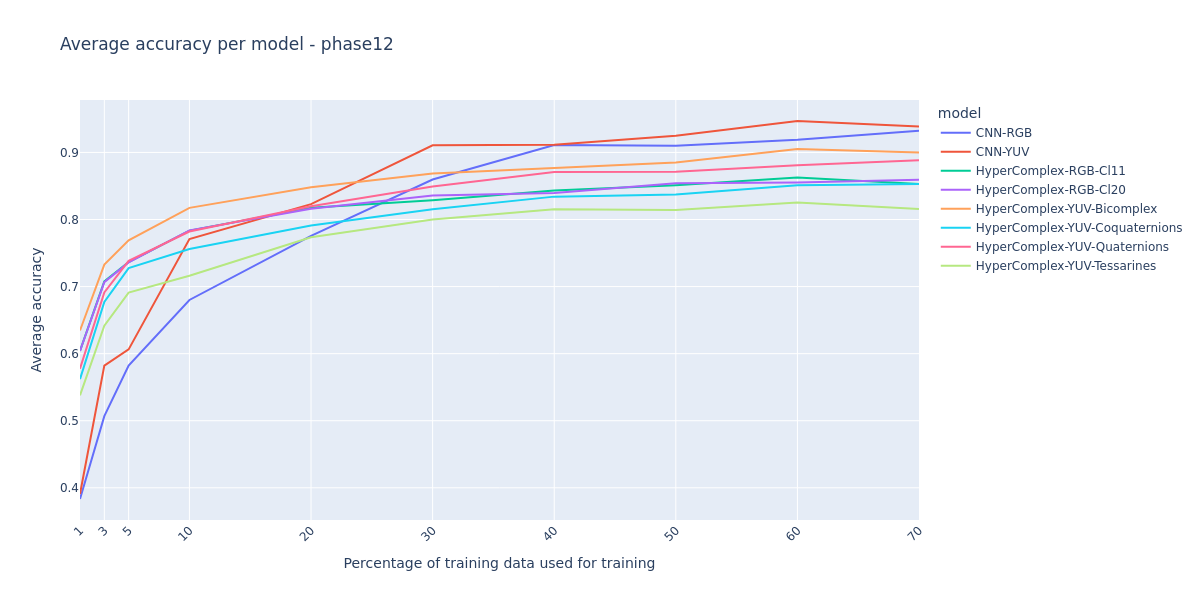
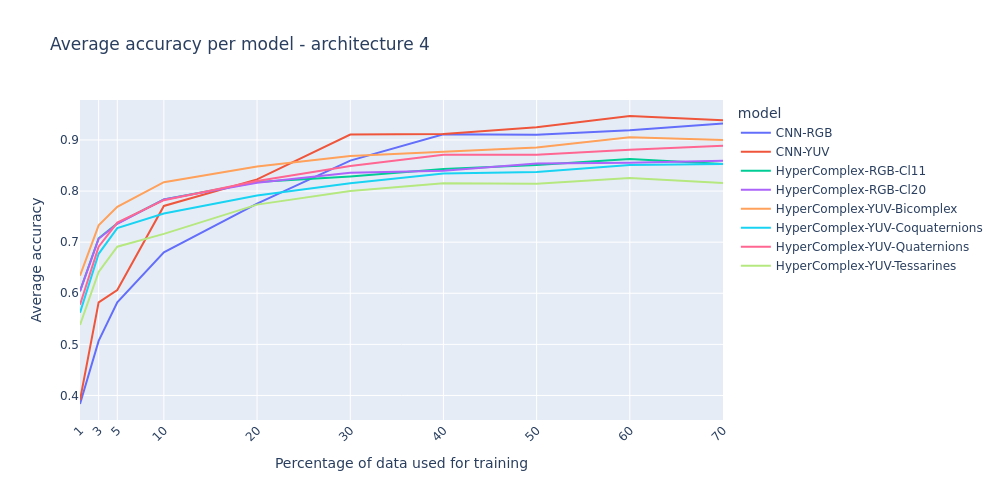
Some improvements

Changed region(s): [[0.031, 0.15, 0.992, 0.96], [0.031, 0.06, 0.434, 0.12]]

diff --git a/models/HyperComplexCNN_Model.py b/models/HyperComplexCNN_Model.py
@@ -34,16 +34,13 @@ def build_model(input_shape, num_classes, metrics, algebra):
     model = Sequential()
     model.add(Input(shape=input_shape))
 
-    model.add(HyperConv2D(16, (3, 3), activation='relu', algebra=algebra))
-    model.add(MaxPooling2D(strides=2))
-
-    model.add(HyperConv2D(32, (3, 3), activation='relu', algebra=algebra))
-    model.add(MaxPooling2D(strides=2))
-
-    model.add(HyperConv2D(64, (3, 3), activation='relu', algebra=algebra))
+    model.add(HyperConv2D(4, (3, 3), activation='relu', algebra=algebra))
     model.add(MaxPooling2D())
 
-    model.add(HyperConv2D(128, (5, 5), activation='relu', algebra=algebra))
+    model.add(HyperConv2D(8, (3, 3), activation='relu', algebra=algebra))
+    model.add(MaxPooling2D())
+
+    model.add(HyperConv2D(16, (3, 3), activation='relu', algebra=algebra))
     model.add(MaxPooling2D())
 
     model.add(Flatten())
@@ -56,10 +53,10 @@ def objective_hcnn(trial, train_dataset, val_dataset, input_shape, num_classes, 
     model = Sequential()
     model.add(Input(shape=input_shape))
 
-    num_layers = trial.suggest_int("num_layers", 2, 5)
-    filters_base = trial.suggest_categorical(f"filters_base_num", [2, 4, 8])
+    num_layers = trial.suggest_int("num_layers", 2, 6)
+    filters_base = trial.suggest_categorical(f"filters_base_num", [2, 4, 8, 16])
     for i in range(num_layers):
-        kernel_size_num = trial.suggest_categorical(f"kernels_size_{i}", [3, 5])
+        kernel_size_num = trial.suggest_categorical(f"kernels_size_{i}", [3, 5, 7])
         model.add(HyperConv2D(filters_base * (2 ** i), (kernel_size_num, kernel_size_num), padding='SAME',
                               activation='relu', algebra=algebra))
         model.add(MaxPooling2D())
@@ -68,7 +65,8 @@ def objective_hcnn(trial, train_dataset, val_dataset, input_shape, num_classes, 
     model.add(Dense(num_classes, activation='softmax'))
     model.compile(loss='categorical_crossentropy', optimizer=Adam(), metrics=["accuracy"])
 
-    history = model.fit(train_dataset, validation_data=val_dataset, epochs=200, verbose=0, callbacks=[early_stopping_tuning])
+    history = model.fit(train_dataset, validation_data=val_dataset, epochs=200, verbose=0,
+                        callbacks=[early_stopping_tuning])
 
     return history.history['val_accuracy'][-1]
 

diff --git a/models/CNN_Model.py b/models/CNN_Model.py
@@ -32,16 +32,13 @@ def build_model(input_shape, num_classes, metrics):
     model = Sequential()
     model.add(Input(shape=input_shape))
 
-    model.add(Conv2D(32, (3, 3), activation='relu'))
-    model.add(MaxPooling2D(strides=2))
-
-    model.add(Conv2D(64, (3, 3), activation='relu'))
-    model.add(MaxPooling2D(strides=2))
-
-    model.add(Conv2D(128, (3, 3), activation='relu'))
+    model.add(Conv2D(16, (3, 3), activation='relu'))
     model.add(MaxPooling2D())
 
-    model.add(Conv2D(256, (5, 5), activation='relu'))
+    model.add(Conv2D(32, (3, 3), activation='relu'))
+    model.add(MaxPooling2D())
+
+    model.add(Conv2D(64, (3, 3), activation='relu'))
     model.add(MaxPooling2D())
 
     model.add(Flatten())
@@ -55,10 +52,10 @@ def objective_cnn(trial, train_dataset, val_dataset, input_shape, num_classes):
     model = Sequential()
     model.add(Input(shape=input_shape))
 
-    num_layers = trial.suggest_int("num_layers", 2, 5)
-    filters_base = trial.suggest_categorical(f"filters_base_num", [8, 16, 32])
+    num_layers = trial.suggest_int("num_layers", 2, 6)
+    filters_base = trial.suggest_categorical(f"filters_base_num", [8, 16, 32, 64])
     for i in range(num_layers):
-        kernel_size_num = trial.suggest_categorical(f"kernels_size_{i}", [3, 5])
+        kernel_size_num = trial.suggest_categorical(f"kernels_size_{i}", [3, 5, 7])
         model.add(Conv2D(filters_base * (2 ** i), (kernel_size_num, kernel_size_num), padding='same',
                          activation='relu'))
         model.add(MaxPooling2D())
@@ -67,7 +64,8 @@ def objective_cnn(trial, train_dataset, val_dataset, input_shape, num_classes):
     model.add(Dense(num_classes, activation='softmax'))
     model.compile(loss='categorical_crossentropy', optimizer=Adam(), metrics=["accuracy"])
 
-    history = model.fit(train_dataset, validation_data=val_dataset, epochs=200, verbose=0, callbacks=[early_stopping_tuning])
+    history = model.fit(train_dataset, validation_data=val_dataset, epochs=200, verbose=0,
+                        callbacks=[early_stopping_tuning])
 
     return history.history['val_accuracy'][-1]
 

diff --git a/analysis/MultiRunAnalysis.py b/analysis/MultiRunAnalysis.py
@@ -10,8 +10,8 @@ RUNS_TO_TEST = ["run1", "run2", "run3", "run4", "run5", "run6", "run7", "run8", 
 RUN_LABELS_SPLIT_1234 = [1, 3, 5, 10, 15, 20, 40, 50, 60, 80] # For phase 1, 2, 3, 4
 RUN_LABELS_SPLIT_5_PLUS = [1, 3, 5, 10, 20, 30, 40, 50, 60, 70] # For phase 5-14, 19-20
 RUN_LABELS_SPLIT_16_PLUS = [70] # For phase 16+
-start_phase = 7        # Inclusive
-end_phase = 7          # Inclusive
+start_phase = 14        # Inclusive
+end_phase = 14          # Inclusive
 # ---------------------------------------------------------
 
 def read_phase_data(run_phase, runs, only_hypercomplex=False):
@@ -81,7 +81,7 @@ def get_average_evaluation_grouped_by(data, runs, run_phase, run_labels, group_b
     df = pd.DataFrame(plot_data)
 
     fig = plt_exp.line(df, x="run_name", y=f"average_{evaluation_key}", color=f"{group_by_key}",
-                       title=f"Average {evaluation_key} per {group_by_key} - {run_phase}",
+                       title=f"Average {evaluation_key} per {group_by_key} - architecture 5",
                        labels={"run_name": "Percentage of data used for training", f"average_{evaluation_key}": f"Average {evaluation_key}",
                                f"{group_by_key}": f"{group_by_key}"})
 
@@ -102,7 +102,7 @@ def get_average_evaluation_by_model(data, runs, run_phase, run_labels, evaluatio
     df = pd.DataFrame(plot_data)
 
     fig = plt_exp.line(df, x="run_name", y=f"average_{evaluation_key}", color="model",
-                       title=f"Average {evaluation_key} per model - {run_phase}",
+                       title=f"Average {evaluation_key} per model - architecture 5",
                        labels={"run_name": "Percentage of data used for training", f"average_{evaluation_key}": f"Average {evaluation_key}",
                                "model": "model"})
 

diff --git a/models/CalculateParams.py b/models/CalculateParams.py
@@ -9,20 +9,20 @@ def calculateParamsHyperConv(filters, kernel_size, input_size, layer_before_flat
         params_sum += params
         print(f"HyperConv2D_{i+1}: {params}")
 
-    # dense_params = num_classes * (flatten_shape + 1)
-    # params_sum += dense_params
+    dense_params = num_classes * (flatten_shape + 1)
+    params_sum += dense_params
 
-    # print(f"Dense: {dense_params}")
+    print(f"Dense: {dense_params}")
     print(f"Total params: {params_sum}")
 
 # CNN - 931432
 
 #filters = (8, 16, 32, 64) # - params/4 -> 228 608
 #filters = (11, 22, 45, 90) # - params/2 -> 450 420
-filters = (16, 32, 64, 128) # - params -> 912 896
+filters = (4, 8, 16) # - params -> 912 896
 
-layer_before_flatten_shape = (10, 10, 128)
-kernel_size = [(3, 3), (3, 3), (3, 3), (5, 5)]
+layer_before_flatten_shape = (10, 10, 64)
+kernel_size = [(3, 3), (3, 3), (3, 3)]
 input_size = (100, 100, 4)
 num_classes = 8
 

diff --git a/phase_plans_and_conclusions/phase18-tuning_plan.md b/phase_plans_and_conclusions/phase18-tuning_plan.md
@@ -45,19 +45,18 @@ def objective_cnn(trial, train_dataset, val_dataset, input_shape, num_classes):
     model.add(Input(shape=input_shape))
 
     num_layers = trial.suggest_int("num_layers", 2, 6)
+    filters_base = trial.suggest_categorical(f"filters_base_num", [8, 16, 32, 64])
     for i in range(num_layers):
-        filters = trial.suggest_categorical(f"filters_{i}", [8, 16, 32, 64, 128, 256])
         kernel_size_num = trial.suggest_categorical(f"kernels_size_{i}", [3, 5, 7])
-        model.add(Conv2D(filters, (kernel_size_num, kernel_size_num), activation='relu'))
-        if trial.suggest_categorical(f"pool_{i}", [True, False]):
-            strides = trial.suggest_categorical(f"strides_{i}", [None, 1, 2])
-            model.add(MaxPooling2D(strides=strides))
+        model.add(Conv2D(filters_base * (2 ** i), (kernel_size_num, kernel_size_num), padding='same',
+                         activation='relu'))
+        model.add(MaxPooling2D())
 
     model.add(Flatten())
     model.add(Dense(num_classes, activation='softmax'))
     model.compile(loss='categorical_crossentropy', optimizer=Adam(), metrics=["accuracy"])
 
-    history = model.fit(train_dataset, validation_data=val_dataset, epochs=200, verbose=0,
+    history = model.fit(train_dataset, validation_data=val_dataset, epochs=200, verbose=0, 
                         callbacks=[early_stopping_tuning])
 
     return history.history['val_accuracy'][-1]
@@ -71,20 +70,18 @@ def objective_hcnn(trial, train_dataset, val_dataset, input_shape, num_classes, 
     model.add(Input(shape=input_shape))
 
     num_layers = trial.suggest_int("num_layers", 2, 6)
+    filters_base = trial.suggest_categorical(f"filters_base_num", [2, 4, 8, 16])
     for i in range(num_layers):
-        filters = trial.suggest_categorical(f"filters_{i}", [2, 4, 8, 16, 32, 64])
         kernel_size_num = trial.suggest_categorical(f"kernels_size_{i}", [3, 5, 7])
-        model.add(HyperConv2D(filters, (kernel_size_num, kernel_size_num), activation='relu',
-                              algebra=algebra))
-        if trial.suggest_categorical(f"pool_{i}", [True, False]):
-            strides = trial.suggest_categorical(f"strides_{i}", [None, 1, 2])
-            model.add(MaxPooling2D(strides=strides))
+        model.add(HyperConv2D(filters_base * (2 ** i), (kernel_size_num, kernel_size_num), padding='SAME',
+                              activation='relu', algebra=algebra))
+        model.add(MaxPooling2D())
 
     model.add(Flatten())
     model.add(Dense(num_classes, activation='softmax'))
     model.compile(loss='categorical_crossentropy', optimizer=Adam(), metrics=["accuracy"])
 
-    history = model.fit(train_dataset, validation_data=val_dataset, epochs=200, verbose=0,
+    history = model.fit(train_dataset, validation_data=val_dataset, epochs=200, verbose=0, 
                         callbacks=[early_stopping_tuning])
 
     return history.history['val_accuracy'][-1]

diff --git a/phase_plans_and_conclusions/phase18-tuning_models.md b/phase_plans_and_conclusions/phase18-tuning_models.md
@@ -8,10 +8,10 @@ def build_model(input_shape, num_classes, metrics):
     model.add(Input(shape=input_shape))
 
     model.add(Conv2D(32, (5, 5), activation='relu'))
-    model.add(MaxPooling2D(strides=2))
+    model.add(MaxPooling2D())
 
     model.add(Conv2D(64, (5, 5), activation='relu'))
-    model.add(MaxPooling2D(strides=2))
+    model.add(MaxPooling2D())
 
     model.add(Conv2D(128, (3, 3), activation='relu'))
     model.add(MaxPooling2D())
@@ -34,10 +34,10 @@ def build_model(input_shape, num_classes, metrics):
     model.add(Input(shape=input_shape))
 
     model.add(Conv2D(32, (3, 3), activation='relu'))
-    model.add(MaxPooling2D(strides=2))
+    model.add(MaxPooling2D())
 
     model.add(Conv2D(64, (3, 3), activation='relu'))
-    model.add(MaxPooling2D(strides=2))
+    model.add(MaxPooling2D())
 
     model.add(Conv2D(128, (3, 3), activation='relu'))
     model.add(MaxPooling2D())
@@ -60,7 +60,7 @@ def build_model(input_shape, num_classes, metrics, algebra):
     model.add(Input(shape=input_shape))
 
     model.add(HyperConv2D(8, (3, 3), activation='relu', algebra=algebra))
-    model.add(MaxPooling2D(strides=2))
+    model.add(MaxPooling2D())
 
     model.add(HyperConv2D(16, (3, 3), activation='relu', algebra=algebra))
     model.add(MaxPooling2D())
@@ -86,7 +86,7 @@ def build_model(input_shape, num_classes, metrics, algebra):
     model.add(Input(shape=input_shape))
 
     model.add(HyperConv2D(8, (3, 3), activation='relu', algebra=algebra))
-    model.add(MaxPooling2D(strides=2))
+    model.add(MaxPooling2D())
 
     model.add(HyperConv2D(16, (3, 3), activation='relu', algebra=algebra))
     model.add(MaxPooling2D())

diff --git a/analysis/between_phases_results/mean_average_F1-Score_per_model.md b/analysis/between_phases_results/mean_average_F1-Score_per_model.md
@@ -1,10 +1,10 @@
 | model                          |   mean_average_F1-Score |
 |:-------------------------------|------------------------:|
-| HyperComplex-YUV-Bicomplex     |                0.842838 |
-| HyperComplex-YUV-Quaternions   |                0.836214 |
-| CNN-YUV                        |                0.828168 |
-| HyperComplex-RGB-Cl11          |                0.825952 |
-| HyperComplex-RGB-Cl20          |                0.823273 |
-| HyperComplex-YUV-Coquaternions |                0.817644 |
-| HyperComplex-YUV-Tessarines    |                0.808232 |
+| HyperComplex-YUV-Bicomplex     |                0.839259 |
+| HyperComplex-YUV-Quaternions   |                0.828496 |
+| CNN-YUV                        |                0.82072  |
+| HyperComplex-RGB-Cl11          |                0.813738 |
+| HyperComplex-RGB-Cl20          |                0.806744 |
+| HyperComplex-YUV-Tessarines    |                0.804158 |
+| HyperComplex-YUV-Coquaternions |                0.800677 |
 | CNN-RGB                        |                0.779491 |

diff --git a/analysis/between_phases_results/mean_average_accuracy_per_model.md b/analysis/between_phases_results/mean_average_accuracy_per_model.md
@@ -1,10 +1,10 @@
 | model                          |   mean_average_accuracy |
 |:-------------------------------|------------------------:|
-| HyperComplex-YUV-Bicomplex     |                0.849959 |
-| HyperComplex-YUV-Quaternions   |                0.846124 |
-| CNN-YUV                        |                0.836162 |
-| HyperComplex-RGB-Cl20          |                0.832738 |
-| HyperComplex-RGB-Cl11          |                0.831507 |
-| HyperComplex-YUV-Coquaternions |                0.825826 |
-| HyperComplex-YUV-Tessarines    |                0.814843 |
+| HyperComplex-YUV-Bicomplex     |                0.847042 |
+| HyperComplex-YUV-Quaternions   |                0.839143 |
+| CNN-YUV                        |                0.827534 |
+| HyperComplex-RGB-Cl11          |                0.820707 |
+| HyperComplex-RGB-Cl20          |                0.818916 |
+| HyperComplex-YUV-Tessarines    |                0.810774 |
+| HyperComplex-YUV-Coquaternions |                0.810405 |
 | CNN-RGB                        |                0.793581 |

diff --git a/phase_plans_and_conclusions/phase19_plan.md b/phase_plans_and_conclusions/phase19_plan.md
@@ -59,10 +59,10 @@ def build_model(input_shape, num_classes, metrics):
     model.add(Input(shape=input_shape))
 
     model.add(Conv2D(32, (3, 3), activation='relu'))
-    model.add(MaxPooling2D(strides=2))
+    model.add(MaxPooling2D())
 
     model.add(Conv2D(64, (3, 3), activation='relu'))
-    model.add(MaxPooling2D(strides=2))
+    model.add(MaxPooling2D())
 
     model.add(Conv2D(128, (3, 3), activation='relu'))
     model.add(MaxPooling2D())
@@ -85,10 +85,10 @@ def build_model(input_shape, num_classes, metrics, algebra):
     model.add(Input(shape=input_shape))
 
     model.add(HyperConv2D(32, (3, 3), activation='relu', algebra=algebra))
-    model.add(MaxPooling2D(strides=2))
+    model.add(MaxPooling2D())
 
     model.add(HyperConv2D(64, (3, 3), activation='relu', algebra=algebra))
-    model.add(MaxPooling2D(strides=2))
+    model.add(MaxPooling2D())
 
     model.add(HyperConv2D(128, (3, 3), activation='relu', algebra=algebra))
     model.add(MaxPooling2D())

diff --git a/phase_plans_and_conclusions/phase24_plan.md b/phase_plans_and_conclusions/phase24_plan.md
@@ -64,10 +64,10 @@ def build_model(input_shape, num_classes, metrics):
     model.add(Input(shape=input_shape))
 
     model.add(Conv2D(32, (3, 3), activation='relu'))
-    model.add(MaxPooling2D(strides=2))
+    model.add(MaxPooling2D())
 
     model.add(Conv2D(64, (3, 3), activation='relu'))
-    model.add(MaxPooling2D(strides=2))
+    model.add(MaxPooling2D())
 
     model.add(Conv2D(128, (3, 3), activation='relu'))
     model.add(MaxPooling2D())
@@ -90,10 +90,10 @@ def build_model(input_shape, num_classes, metrics, algebra):
     model.add(Input(shape=input_shape))
 
     model.add(HyperConv2D(11, (3, 3), activation='relu', algebra=algebra))
-    model.add(MaxPooling2D(strides=2))
+    model.add(MaxPooling2D())
 
     model.add(HyperConv2D(22, (3, 3), activation='relu', algebra=algebra))
-    model.add(MaxPooling2D(strides=2))
+    model.add(MaxPooling2D())
 
     model.add(HyperConv2D(45, (3, 3), activation='relu', algebra=algebra))
     model.add(MaxPooling2D())

diff --git a/phase_plans_and_conclusions/phase25_plan.md b/phase_plans_and_conclusions/phase25_plan.md
@@ -64,10 +64,10 @@ def build_model(input_shape, num_classes, metrics):
     model.add(Input(shape=input_shape))
 
     model.add(Conv2D(32, (3, 3), activation='relu'))
-    model.add(MaxPooling2D(strides=2))
+    model.add(MaxPooling2D())
 
     model.add(Conv2D(64, (3, 3), activation='relu'))
-    model.add(MaxPooling2D(strides=2))
+    model.add(MaxPooling2D())
 
     model.add(Conv2D(128, (3, 3), activation='relu'))
     model.add(MaxPooling2D())
@@ -90,10 +90,10 @@ def build_model(input_shape, num_classes, metrics, algebra):
     model.add(Input(shape=input_shape))
 
     model.add(HyperConv2D(16, (3, 3), activation='relu', algebra=algebra))
-    model.add(MaxPooling2D(strides=2))
+    model.add(MaxPooling2D())
 
     model.add(HyperConv2D(32, (3, 3), activation='relu', algebra=algebra))
-    model.add(MaxPooling2D(strides=2))
+    model.add(MaxPooling2D())
 
     model.add(HyperConv2D(64, (3, 3), activation='relu', algebra=algebra))
     model.add(MaxPooling2D())

diff --git a/phase_plans_and_conclusions/phase20_plan.md b/phase_plans_and_conclusions/phase20_plan.md
@@ -59,10 +59,10 @@ def build_model(input_shape, num_classes, metrics):
     model.add(Input(shape=input_shape))
 
     model.add(Conv2D(32, (3, 3), activation='relu'))
-    model.add(MaxPooling2D(strides=2))
+    model.add(MaxPooling2D())
 
     model.add(Conv2D(64, (3, 3), activation='relu'))
-    model.add(MaxPooling2D(strides=2))
+    model.add(MaxPooling2D())
 
     model.add(Conv2D(128, (3, 3), activation='relu'))
     model.add(MaxPooling2D())
@@ -85,10 +85,10 @@ def build_model(input_shape, num_classes, metrics, algebra):
     model.add(Input(shape=input_shape))
 
     model.add(HyperConv2D(8, (3, 3), activation='relu', algebra=algebra))
-    model.add(MaxPooling2D(strides=2))
+    model.add(MaxPooling2D())
 
     model.add(HyperConv2D(16, (3, 3), activation='relu', algebra=algebra))
-    model.add(MaxPooling2D(strides=2))
+    model.add(MaxPooling2D())
 
     model.add(HyperConv2D(32, (3, 3), activation='relu', algebra=algebra))
     model.add(MaxPooling2D())
